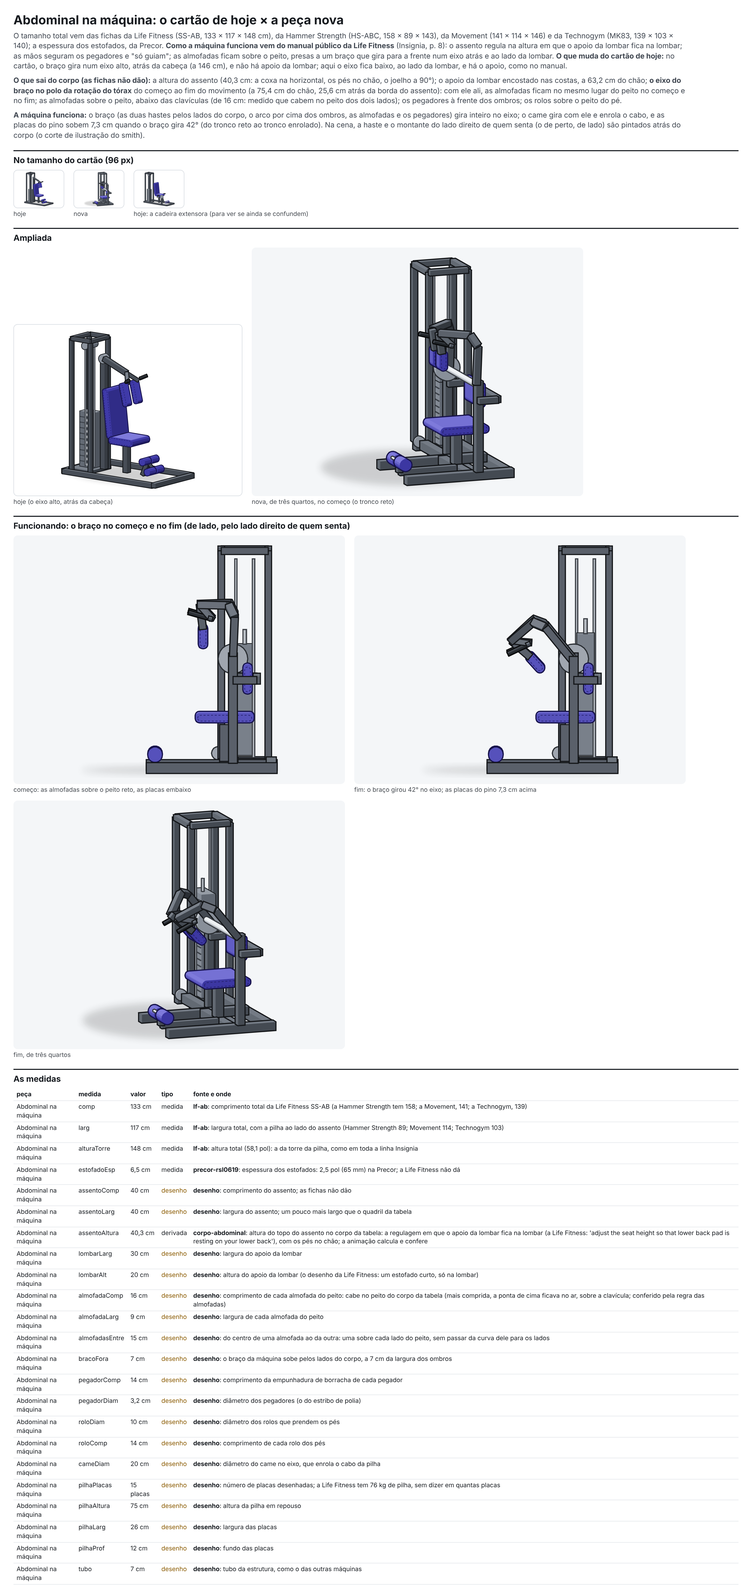
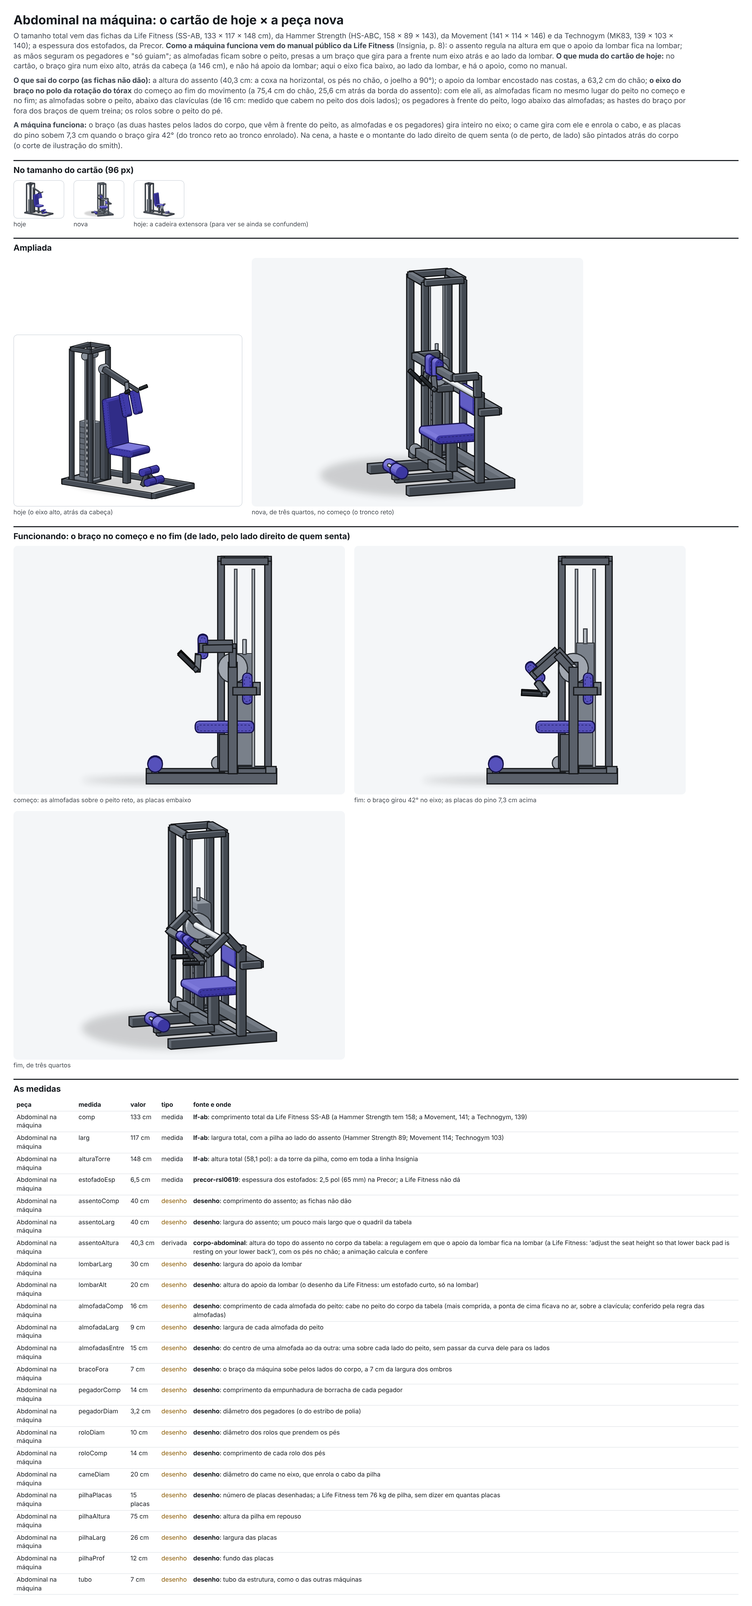
Abdominal na máquina: nada da máquina na frente do rosto
De lado, o pegador e a haste que descia por cima dos ombros ficavam na
frente dos olhos. As mãos vão para a frente do peito, logo abaixo das
almofadas, nos pegadores que saem da ponta de baixo delas; as hastes do
braço da máquina sobem pelos lados, por fora dos cotovelos, e vêm à
frente do peito. De lado, a almofada de perto aparece no peito. Regra
nova, nos dois lados: as hastes e os pegadores livres do corpo e longe da
cabeça.

Claude-Session: https://claude.ai/code/session_01YRzts8DBGbsca9onebcMt1

diff --git a/src/engine/novo/exercicios/abdominal-maquina.ts b/src/engine/novo/exercicios/abdominal-maquina.ts
@@ -2,8 +2,8 @@
 // números vêm da ficha (../dados/movimentos/abdominal-maquina.json); a máquina, de ../pecas-de-cena/abdominal-maquina.ts.
 //
 // Sentado, a bacia parada no assento, os pés no chão presos pelos rolos, a lombar no apoio; as almofadas do braço da
-// máquina sobre o peito e as mãos nos pegadores, ao lado da cabeça. Como no abdominal na polia aprovado
-// (./abdominal-polia.ts), quem enrola é a coluna (a lombar e a parte de cima das costas dobram, o pescoço acompanha), com
+// máquina sobre o peito e as mãos nos pegadores, à frente do peito, logo abaixo das almofadas. Como no abdominal na
+// polia aprovado (./abdominal-polia.ts), quem enrola é a coluna (a lombar e a parte de cima das costas dobram, o pescoço acompanha), com
 // a bacia parada: as costelas vão em direção à pelve, e o quadril quase não dobra. O braço da máquina gira junto,
 // empurrado pelo peito, e as mãos vão com ele (os braços só seguram).
 //
@@ -29,7 +29,7 @@ import { abdominalMaquina, bracoDoAbdominal } from '../pecas-de-cena/abdominal-m
 import type { AbdominalMaquina, AlmofadaDoPeito } from '../pecas-de-cena/abdominal-maquina';
 import type { Corpo } from '../tabelas';
 import { obj } from '../tabelas';
-import { add, anguloEm, cross, dirRef, dot, mix, mul, noRef, norm, paraRef, sub } from '../vec';
+import { add, anguloEm, cross, dirRef, dot, mix, noRef, norm, paraRef, sub } from '../vec';
 import type { V3 } from '../vec';
 import { frenteParaOPeito } from './polia-puxar';
 
@@ -49,7 +49,7 @@ interface Calib {
   lombar: V3;
   eixo: V3;
   xBraco: number;
-  arco: [number, number];
+  zHaste: number;
   /** O ponto de cada almofada e de cada pegador no referencial do tórax, no começo. */
   almofada: V3;
   pegador: V3;
@@ -134,18 +134,42 @@ function calibrar(corpo: Corpo): Calib {
     const xA = obj('abdominalMaquina', 'almofadasEntre') / 2;
     const yA = -f('almofada.abaixoDoC7');
     const almofada = add(peleDaFrente(e0, -xA, yA), [0, 0, f('almofada.folga')]);
-    // os pegadores: à frente dos ombros, logo acima das almofadas (no referencial do tórax), apontando para a frente
+    // os pegadores: saem da ponta de baixo das almofadas, à frente do peito (no referencial do tórax), apontando para a
+    // frente
     const pegador: V3 = [-f('maos.meiaDistancia'), f('maos.acimaDoC7'), f('maos.aFrente')];
-    // o braço sobe pelos lados, por fora dos ombros, e passa por cima deles
+    // o braço sobe pelos lados, por fora dos ombros, e vem à frente do peito passando à frente dos braços de quem
+    // treina (com as mãos nos pegadores): o ponto mais à frente da pele dos braços na altura das almofadas, mais o raio
+    // da haste e a folga
     const xBraco = m('largura.bideltoide') / 2 + obj('abdominalMaquina', 'bracoFora');
-    const arco: [number, number] = [e0.lado.R.acromioclavicular[1] + f('arco.acimaDoOmbro'), e0.lado.R.ombro[2] - 4];
+    const yAlmofada = noRef(e0.torax, [0, -f('almofada.abaixoDoC7'), 0])[1];
+    const mPeg = maquina(corpo, { y, z: zP, frente, bolaZ, assento: 0, lombar: [0, 0, 0], eixo: [0, 0, 0], xBraco, zHaste: 0, almofada: [0, 0, 0], pegador, rolos: [0, 0, 0] }, 0);
+    const tBr = tronco(corpo, { y, z: zP, frente }, 0);
+    const eBr = resolverMembros(tBr, bracosNos(tBr, bracoDoAbdominal(mPeg).pegadores), pernas(bolaZ));
+    let zBraco = -1e9,
+      xFora = 0;
+    for (const { p, parte } of pontosDoBoneco(eBr)) {
+      if ((parte === 'braco' || parte === 'ante') && Math.abs(p[1] - yAlmofada) < 8) zBraco = Math.max(zBraco, p[2]);
+      if ((parte === 'braco' || parte === 'ante' || parte === 'mao' || parte === 'polegar') && p[1] < yAlmofada + 8) xFora = Math.max(xFora, Math.abs(p[0]));
+    }
+    const zHaste = zBraco + 2.5 + f('haste.folga');
+    // e as hastes sobem por fora dos cotovelos de quem treina (que se abrem um pouco), com a mesma folga
+    const xHaste = Math.max(xBraco, xFora + 2.5 + f('haste.folga'));
     // os rolos dos pés: sobre o peito do pé, `rolos.aFrente` cm à frente do tornozelo
     const zr = e0.lado.R.tornozelo[2] + f('rolos.aFrente');
     let topo = -1e9;
     for (const { p, parte } of pontosDoBoneco(e0)) if (parte === 'pe' && Math.abs(p[2] - zr) < 1.5) topo = Math.max(topo, p[1]);
     const rolos: V3 = [0, topo + obj('abdominalMaquina', 'roloDiam') / 2 + f('rolos.folga'), zr];
-    return { y, z: zP, frente, bolaZ, assento, lombar, eixo, xBraco, arco, almofada, pegador, rolos };
+    return { y, z: zP, frente, bolaZ, assento, lombar, eixo, xBraco: xHaste, zHaste, almofada, pegador, rolos };
   });
+}
+
+/** Os braços: cada mão fechada no seu pegador (a pegada neutra), o cotovelo para baixo, para fora e um pouco à frente. */
+function bracosNos(t: Tronco, pegadores: Record<Lado, { centro: V3; eixo: V3 }>): Record<Lado, PoseBraco> {
+  const braco = (k: Lado): PoseBraco => {
+    const s = sinal(k);
+    return { pegada: pegadores[k].centro, polo: norm(dirRef(t.torax, [s * 0.45, -1, 0.7])), mao: { polegar: pegadores[k].eixo, forma: 'pegada', diam: obj('abdominalMaquina', 'pegadorDiam') } };
+  };
+  return { R: braco('R'), L: braco('L') };
 }
 
 /** A máquina com o braço girado `alavanca` graus (as almofadas e os pegadores definidos pelo tórax do começo). */
@@ -159,7 +183,7 @@ function maquina(corpo: Corpo, c: Calib, alavanca: number): AbdominalMaquina {
     almofadas[k] = { centro: noRef(T, esp(c.almofada)), normal: T.z, ao: T.y };
     pegadores[k] = { centro: noRef(T, esp(c.pegador)), eixo: norm(dirRef(T, [0, f('maos.pegadorSobe'), 1])) };
   }
-  return { assento: c.assento, lombar: { centro: c.lombar, normal: [0, 0, 1] }, eixo: c.eixo, xBraco: c.xBraco, arco: { y: c.arco[0], z: c.arco[1] }, almofadas, pegadores, alavanca, rolos: c.rolos, zTras: c.eixo[2] - f('maquina.atrasDoEixo'), pertoAtras: 'R' };
+  return { assento: c.assento, lombar: { centro: c.lombar, normal: [0, 0, 1] }, eixo: c.eixo, xBraco: c.xBraco, zHaste: c.zHaste, almofadas, pegadores, alavanca, rolos: c.rolos, zTras: c.eixo[2] - f('maquina.atrasDoEixo'), pertoAtras: 'R' };
 }
 
 /** O quanto a pele do peito avança além da face da almofada direita (cm; negativo = longe), só sobre ela. */
@@ -243,11 +267,7 @@ function montar(corpo: Corpo, u: number, erro?: string) {
       : anguloDaCurva(corpo, c, 'certo', (x) => tronco(corpo, c, x), u);
   const M = maquina(corpo, c, alavanca);
   const B = bracoDoAbdominal(M);
-  const braco = (k: Lado): PoseBraco => {
-    const s = sinal(k);
-    return { pegada: B.pegadores[k].centro, polo: norm(dirRef(t.torax, [s * 0.45, -1, 0.7])), mao: { polegar: mul(B.pegadores[k].eixo, -1), forma: 'pegada', diam: obj('abdominalMaquina', 'pegadorDiam') } };
-  };
-  const e = resolverMembros(t, { R: braco('R'), L: braco('L') }, pernas(c.bolaZ));
+  const e = resolverMembros(t, bracosNos(t, B.pegadores), pernas(c.bolaZ));
   return { e, M, c };
 }
 
@@ -268,6 +288,8 @@ function quadro(corpo: Corpo, u: number, erro?: string): Quadro {
     marcas[`almofadaNormal.${k}`] = B.almofadas[k].normal;
     marcas[`almofadaAo.${k}`] = B.almofadas[k].ao;
     marcas[`pegador.${k}`] = B.pegadores[k].centro;
+    marcas[`pegadorEixo.${k}`] = B.pegadores[k].eixo;
+    A.hastes[k].forEach((p, i) => (marcas[`haste.${k}.${i}`] = p));
   }
   return {
     esq: e,

diff --git a/src/engine/novo/pecas-de-cena/abdominal-maquina.ts b/src/engine/novo/pecas-de-cena/abdominal-maquina.ts
@@ -12,9 +12,10 @@
 // da Life Fitness (e como pede o movimento: o tronco enrola em volta da coluna, e não do alto da cabeça); e o cartão
 // não tem o apoio da lombar, que o manual tem.
 //
-// A máquina funciona: o braço (as duas hastes que sobem pelos lados do corpo, o arco por cima dos ombros, as almofadas
-// e os pegadores) gira inteiro no eixo; o came gira com ele e enrola o cabo, e as placas escolhidas sobem o arco do came
-// (raio × ângulo girado desde a posição inicial).
+// A máquina funciona: o braço (as duas hastes que sobem pelos lados do corpo e vêm à frente do peito, as almofadas e
+// os pegadores, que saem da ponta de baixo das almofadas) gira inteiro no eixo; o came gira com ele e enrola o cabo, e
+// as placas escolhidas sobem o arco do came (raio × ângulo girado desde a posição inicial). Os pegadores e as hastes
+// ficam abaixo dos ombros: nada da máquina passa na altura do rosto (de lado, nada fica na frente dele).
 //
 // Eixos: quem senta olha para +z; o assento fica centrado em x = 0, com a borda da frente em z = 0. O lado esquerdo de
 // quem senta é +x (o direito, que a vista de lado mostra, é −x): o came e a torre ficam à esquerda.
@@ -47,8 +48,8 @@ export interface AbdominalMaquina {
   eixo: V3;
   /** Meia distância entre as duas hastes do braço (cm). */
   xBraco: number;
-  /** A altura (cm) e o z do arco que passa por cima dos ombros, na posição inicial. */
-  arco: { y: number; z: number };
+  /** O z da parte das hastes que vem à frente do peito, na posição inicial: à frente dos braços de quem treina. */
+  zHaste: number;
   almofadas: Record<Lado, AlmofadaDoPeito>;
   /** O centro de cada pegador e a direção dele (de baixo para cima), na posição inicial. */
   pegadores: Record<Lado, { centro: V3; eixo: V3 }>;
@@ -88,8 +89,8 @@ export function bracoDoAbdominal(m: AbdominalMaquina) {
 }
 
 /**
- * A máquina: os volumes para a conferência (o assento, o apoio da lombar, as almofadas, os pegadores, o arco por cima
- * dos ombros e os rolos: onde o corpo encosta e o que ele não pode atravessar), a estrutura parada e o braço que gira.
+ * A máquina: os volumes para a conferência (o assento, o apoio da lombar, as almofadas, os pegadores, as hastes
+ * e os rolos: onde o corpo encosta e o que ele não pode atravessar), a estrutura parada e o braço que gira.
  */
 export function abdominalMaquina(m: AbdominalMaquina) {
   const esp = g('estofadoEsp'),
@@ -98,12 +99,17 @@ export function abdominalMaquina(m: AbdominalMaquina) {
   const B = bracoDoAbdominal(m);
   const caixa = (o: V3, x: V3, y: V3, z: V3, meias: V3, cls: string): Prim => ({ t: 'caixa', ref: { o, x, y, z }, meias, cls, vies: 0.5 });
   const xb = m.xBraco;
-  // o caminho de cada haste: do eixo sobe pelo lado do corpo, faz a curva por cima do ombro e desce até a almofada
+  // o caminho de cada haste: do eixo sobe pelo lado do corpo, por fora do braço de quem treina, até a altura das
+  // almofadas, vem para a frente por fora do braço, passa à frente dele e volta até a borda de fora da almofada (nada
+  // passa na altura do rosto)
   const caminho = (k: Lado): V3[] => {
     const s = k === 'R' ? -1 : 1;
     const a = m.almofadas[k];
-    const topo = add(a.centro, add(mul(a.ao, g('almofadaComp') / 2 - 3), mul(a.normal, esp / 2)));
-    const pts: V3[] = [[s * xb, m.eixo[1], m.eixo[2]], [s * xb, m.arco.y - 8, m.arco.z], [s * (xb - 6), m.arco.y, m.arco.z + 4], [topo[0], m.arco.y, topo[2] + 2], topo];
+    const fora = norm(cross(a.ao, a.normal));
+    const borda = add(add(a.centro, mul(a.normal, esp / 2)), mul(fora, (Math.sign(fora[0]) === s ? 1 : -1) * (g('almofadaLarg') / 2)));
+    // a parte da frente passa à frente do braço de quem treina (`zHaste`) e volta até a borda da almofada
+    const zH = Math.max(borda[2], m.zHaste);
+    const pts: V3[] = [[s * xb, m.eixo[1], m.eixo[2]], [s * xb, borda[1], m.eixo[2]], [s * xb, borda[1], zH], [borda[0], borda[1], zH], borda];
     return pts.map(B.P);
   };
   const pegBase = (k: Lado): V3 => B.P(add(m.pegadores[k].centro, mul(m.pegadores[k].eixo, -g('pegadorComp') / 2 - 3)));
@@ -204,18 +210,18 @@ export function abdominalMaquina(m: AbdominalMaquina) {
       const cx = (x: number): V3 => [x, m.eixo[1], m.eixo[2]];
       C.cilindro(cx(xC - 3), cx(xC + 3), rC, M.metalClaro, { lados: 24 });
       C.cilindro(cx(-xb - 7), cx(xC + 5), 2.4, M.cromo, { lados: 12 });
-      // as duas hastes do braço, com o arco por cima dos ombros, até as almofadas (a do lado de perto, se for cenário,
+      // as duas hastes do braço, pelos lados do corpo e à frente do peito, até as almofadas (a do lado de perto, se for cenário,
       // vai à parte)
       for (const k of ['R', 'L'] as Lado[]) {
-        const c = caminho(k);
         if (k !== m.pertoAtras) haste(C, M, k);
         // a almofada do peito: a face de trás encosta no peito
         const a = B.almofadas[k];
         C.estofado(a.centro, a.ao, a.normal, norm(cross(a.ao, a.normal)), g('almofadaComp'), esp, g('almofadaLarg'));
-        // o pegador: a haste que sai do arco e a empunhadura de borracha
+        // o pegador: a haste que sai da ponta de baixo da almofada, pela frente dela, e a empunhadura de borracha
         const p = B.pegadores[k];
         const base = pegBase(k);
-        C.tubo(c[3]!, base, 3.5, 3.5, M.metal);
+        const pe = add(a.centro, add(mul(a.ao, -g('almofadaComp') / 2 + 2), mul(a.normal, esp)));
+        C.tubo(pe, base, 3.5, 3.5, M.metal);
         C.cilindro(add(p.centro, mul(p.eixo, -g('pegadorComp') / 2 - 3)), add(p.centro, mul(p.eixo, -g('pegadorComp') / 2)), 1.6, M.metal, { lados: 10 });
         C.cilindro(add(p.centro, mul(p.eixo, -g('pegadorComp') / 2)), add(p.centro, mul(p.eixo, g('pegadorComp') / 2)), g('pegadorDiam') / 2, M.borracha, { lados: 12, dz: 6 });
       }
@@ -234,5 +240,5 @@ export function abdominalMaquina(m: AbdominalMaquina) {
         },
       }
     : undefined;
-  return { prims, fixa, movel, perto, subida, braco: B, extremos: { zTras: m.zTras, zFrente, xDireita: -xb - 8, xEsquerda: xT1 + 2 } };
+  return { prims, fixa, movel, perto, subida, braco: B, hastes: { R: caminho('R'), L: caminho('L') }, extremos: { zTras: m.zTras, zFrente, xDireita: -xb - 8, xEsquerda: xT1 + 2 } };
 }

diff --git a/docs/revisoes/animacao-nova/lote-C3/abdominal-maquina.md b/docs/revisoes/animacao-nova/lote-C3/abdominal-maquina.md
@@ -21,7 +21,8 @@ O tamanho vem das fichas (Life Fitness SS-AB 133 × 117 × 148 cm; Hammer Streng
 | Enrola o tronco: as costelas vão à pelve | consenso | a lombar dobra 26° e a torácica 40° (os números do abdominal na polia aprovado); o tórax gira 49,3°; a base do pescoço chega 6,9 cm mais perto do quadril | sim |
 | O quadril dobra pouco | consenso | a bacia não anda nem gira (0 cm, 0°) | sim |
 | Volta controlada até o tronco ficar reto | consenso | 2 s; no começo, o peito na vertical, a coluna neutra | sim |
-| Braços só seguram | consenso | **as duas mãos** ficam nos pegadores (0 cm), fechadas; em relação ao tórax, andam 5,4 cm e o cotovelo vai de 138,2° a 143,4° | sim |
+| Braços só seguram | consenso | **as duas mãos** ficam nos pegadores (0 cm), fechadas, à frente do peito, logo abaixo das almofadas; em relação ao tórax, andam 4,4 cm e o cotovelo vai de 116,3° a 122,7° | sim |
+| (Nada da máquina no rosto ou no corpo) | desenho | nos dois lados, as hastes do braço da máquina, as dos pegadores e as empunhaduras ficam a no mínimo 0,9 cm da pele (fora a mão que segura) e a 11,1 cm da cabeça | sim |
 | (A máquina funciona) | consenso | o braço gira de 0,5° a 42° no eixo; a pilha sobe 7,2 cm (o arco do came de 20 cm) | sim |
 
 **Conferência automática: 0 falha, 1 aviso** (as linhas que são escolha de desenho).
@@ -30,22 +31,30 @@ O tamanho vem das fichas (Life Fitness SS-AB 133 × 117 × 148 cm; Hammer Streng
 
 Todas as regras de contato medem os dois lados: as duas almofadas (no peito e dentro das bordas: a primeira versão, de 22 cm e mais alta, tinha a ponta de cima no ar, a 7 a 9 cm da pele, sobre a clavícula; ficou com 16 cm, 18 cm abaixo da sétima cervical e 15 cm entre os centros), as duas mãos nos pegadores, os dois pés sob os rolos e os dois lados do glúteo no assento. Nos quadros, de três quartos, o braço, a mão e a almofada do lado de longe aparecem no lugar.
 
+## A revisão de 18/11: o pegador na frente do rosto
+
+Na primeira versão, de lado (a vista que o app abre), o pegador e a haste que descia do arco por cima dos ombros ficavam na frente dos olhos em f0 e f0,5. Agora:
+- **as mãos ficam à frente do peito, logo abaixo das almofadas** (o centro de cada uma 27 cm abaixo da sétima cervical, 32 cm à frente dela, a 13 cm do meio do corpo), nos pegadores que saem da ponta de baixo das almofadas, apontando para a frente e para cima (45°). O manual da Life Fitness só diz "grip handles"; o desenho dele põe as mãos ao lado da cabeça, e era isso que cruzava o rosto. No fim do abdominal os pegadores ficam quase na horizontal, a 0,9 cm das coxas no ponto mais perto;
+- **o braço da máquina não passa mais por cima dos ombros:** as duas hastes sobem pelos lados do corpo, por fora dos cotovelos de quem treina (a 45,8 cm do meio, 2 cm por fora da pele deles), vêm à frente do peito na altura das almofadas e entram até a borda de fora delas. Nada da máquina fica na altura do rosto;
+- **de lado, a almofada do lado de perto aparece no peito**, inteira, e a mão segura logo abaixo dela.
+
+Uma regra nova mede isso nos dois lados (`abdominal-maquina-pegadores-livres-do-corpo`: as hastes e os pegadores a pelo menos 0,5 cm da pele, fora a mão que segura, e a pelo menos 10 cm da cabeça).
+
 ## As vistas
 
-**De lado** (padrão): a coluna enrolando, o assento, o apoio da lombar, a pilha subindo atrás. A haste e o montante do braço do lado de perto são pintados atrás do corpo (cobriam o ombro e as costas, o corte de ilustração do smith). **De três quartos** (segunda e a do modo Músculos): o braço da máquina inteiro, as almofadas no peito, os rolos dos pés.
+**De lado** (padrão): a coluna enrolando, a almofada no peito, as mãos logo abaixo dela, o assento, o apoio da lombar, a pilha subindo atrás. A haste e o montante do braço do lado de perto são pintados atrás do corpo (o corte de ilustração do smith). **De três quartos** (segunda e a do modo Músculos): o braço da máquina inteiro, as duas almofadas no peito, as duas mãos, os rolos dos pés.
 
 ## Erros (os dois do cartão, com o mesmo título e na mesma ordem)
 
 | Erro | Vista | O que o boneco faz (medido) |
 |---|---|---|
-| Puxar com os braços | de lado | o braço da máquina vai o caminho todo (42,1°), mas a coluna enrola só 35% (o peito a 17,3° da vertical): os braços puxam (o cotovelo abre de 143° para 120°) e o peito sai das almofadas |
-| Só dobrar o quadril | de lado | a coluna fica reta e a bacia gira 38°: o tronco desce inteiro (o peito a 38°), a lombar sai do apoio e o braço da máquina vai a 63° |
+| Puxar com os braços | de lado | o braço da máquina vai o caminho todo (42°), mas a coluna enrola só 35%: os braços puxam (o cotovelo abre) e o peito sai das almofadas |
+| Só dobrar o quadril | de lado | a coluna fica reta e a bacia gira 38°: o tronco desce inteiro, a lombar sai do apoio e o braço da máquina vai mais longe |
 
 ## O que não ficou bom
 
-- **De lado, as almofadas quase não aparecem:** o braço da pessoa fica na frente delas, e a haste do lado de perto vai para trás do corpo. A máquina se lê melhor de três quartos.
-- **As mãos ficam à frente dos ombros, e não ao lado da cabeça** como no desenho do manual: ao lado da cabeça, de lado, o pegador passava na frente do rosto. O cotovelo fica bem dobrado (~140°).
-- **A peça é diferente do cartão de hoje** (o eixo baixo, ao lado da lombar, no lugar do eixo alto atrás da cabeça, e o apoio da lombar): segue o manual da Life Fitness, mas o cartão do app não foi mexido.
-- O eixo está dentro da largura do corpo, na altura da lombar (é o polo da rotação do tórax); o braço da máquina passa por fora, a 31 cm do meio.
+- **De frente, as hastes passam na frente dos braços**, na altura das almofadas, e a máquina fica larga (as hastes a 45,8 cm do meio): é o preço de tirá-las de cima dos ombros.
+- **A peça é diferente do cartão de hoje** (o eixo baixo, ao lado da lombar, o apoio da lombar, as hastes pelos lados): segue o manual da Life Fitness, mas o cartão do app não foi mexido.
+- De lado, a almofada de perto é pintada por cima do braço (de perfil, o braço fica entre ela e quem olha): é o que deixa a almofada aparecer no peito.
 
-**Risco de o Gustavo não gostar: médio** (máquina nova, diferente do cartão; as almofadas aparecem pouco de lado).
+**Risco de o Gustavo não gostar: médio** (máquina nova, diferente do cartão).

diff --git a/docs/revisoes/animacao-nova/lote-C3/resumo-avulsos.md b/docs/revisoes/animacao-nova/lote-C3/resumo-avulsos.md
@@ -9,9 +9,9 @@ De 18/11/2026. As últimas animações da fase C deste grupo: o abdominal na má
 Folha: `docs/revisoes/animacoes-restantes/pecas/folha-abdominal-maquina.png` (`node scripts/animacao-nova/folha-pecas.mjs abdominal-maquina`).
 
 - **Medidas com fonte:** 133 × 117 × 148 cm (Life Fitness SS-AB, manual público Insignia, p. 8; a mesma da pesquisa, LF-HS26); Hammer Strength HS-ABC 158 × 89 × 143, Movement 141 × 114 × 146, Technogym MK83 139 × 103 × 140 (pesquisa, seção 13.1); estofados de 6,5 cm (Precor). **Como funciona, do manual da Life Fitness:** o assento regula para o apoio da lombar ficar na lombar; as mãos nos pegadores só guiam; as almofadas sobre o peito, num braço que gira num eixo atrás e ao lado da lombar.
-- **Derivadas do corpo:** o assento a 40,3 cm (a coxa na horizontal, os pés no chão, o joelho a 90°); o apoio da lombar encostado nas costas; **o eixo no polo da rotação do tórax** do começo ao fim do abdominal (26,1 cm acima do centro do quadril, 3,6 cm atrás dele); as almofadas sobre o peito; os pegadores à frente dos ombros; os rolos sobre o peito do pé.
+- **Derivadas do corpo:** o assento a 40,3 cm (a coxa na horizontal, os pés no chão, o joelho a 90°); o apoio da lombar encostado nas costas; **o eixo no polo da rotação do tórax** do começo ao fim do abdominal (26,1 cm acima do centro do quadril, 3,6 cm atrás dele); as almofadas sobre o peito; os pegadores à frente do peito, logo abaixo das almofadas; as hastes por fora dos cotovelos de quem treina (45,8 cm do meio) e à frente do peito; os rolos sobre o peito do pé.
 - **De desenho:** o assento, o apoio da lombar, as almofadas (16 × 9 cm, 15 cm entre os centros), os pegadores, os rolos, o came (20 cm), a pilha, os tubos.
-- **Funciona:** o braço inteiro gira no eixo, o came enrola o cabo e as placas sobem o arco do came (7,2 cm em 42°).
+- **Funciona:** o braço inteiro (as hastes, as almofadas e os pegadores) gira no eixo, o came enrola o cabo e as placas sobem o arco do came (7,2 cm em 42°).
 - **Diferente do cartão de hoje:** o cartão gira o braço num eixo alto, atrás da cabeça, e não tem o apoio da lombar.
 
 ### A tornozeleira (`pecas-de-cena/tornozeleira.ts`, `dados/objetos/tornozeleira.json`)
@@ -28,13 +28,13 @@ Folha: `docs/revisoes/animacoes-restantes/pecas/folha-tornozeleira.png`.
 
 | | Abdominal na máquina | Coice na polia | Abdução na polia | Remada invertida |
 |---|---|---|---|---|
-| Conferência automática | 0 falha, 1 aviso (linhas de desenho) | 0 falha, 2 avisos (dorsiflexão de 20°; linhas de desenho) | 0 falha, 2 avisos (linhas de desenho; o glúteo não aparece de frente) | 0 falha, 2 avisos (ritmo 17,1%; linhas de desenho) |
+| Conferência automática | 0 falha, 1 aviso (linhas de desenho) | 0 falha, 1 aviso (linhas de desenho) | 0 falha, 2 avisos (linhas de desenho; o glúteo não aparece de frente) | 0 falha, 2 avisos (ritmo 17,1%; linhas de desenho) |
 | Vistas | de lado e de três quartos | de lado e de três quartos, por trás | de frente e de trás | de lado e de três quartos, por trás |
 | Erros desenhados | puxar com os braços; só dobrar o quadril | arquear a lombar; dobrar o joelho; embalar | inclinar o tronco; girar o pé para fora | quadril caído; puxar com o queixo; descida solta |
 | Erros sem desenho | nenhum | nenhum | **embalar a perna** (ritmo; como o "Balançar a perna" da abdução com elástico, que já está em `SEM_DESENHO`) | nenhum |
 | Conferência escrita | `abdominal-maquina.md` | `coice-polia.md` | `abducao-polia.md` | `remada-invertida.md` |
 | Quadros grandes | `../quadros/abdominal-maquina.png` | `../quadros/coice-polia.png` | `../quadros/abducao-polia.png` | `../quadros/remada-invertida.png` |
-| Risco de o Gustavo não gostar | médio | médio a alto | médio | médio |
+| Risco de o Gustavo não gostar | médio | médio | médio | médio |
 
 ## Os dois lados (aviso de 18/11)
 
@@ -50,9 +50,15 @@ Nenhuma no núcleo, nas peças comuns ou nas animações aprovadas (o preparo de
 - O `dados/preparo/registro.ts` é o gerado pelo `preparo.mjs`; ele gravou só os quatro arquivos novos (com as calibrações) e as linhas do registro.
 - Pedidos ao conteúdo: `pedidos-avulsos.md` (os posteriores no coice; o cartão de equipamento do abdominal).
 
+## A revisão de 18/11 (o abdominal e o coice voltaram)
+
+O integrador aprovou a abdução na polia e a remada invertida, e devolveu os outros dois:
+- **Abdominal na máquina:** de lado, o pegador ficava na frente dos olhos. As mãos foram para a frente do peito, logo abaixo das almofadas (o manual só diz "grip handles"), e as hastes do braço da máquina sobem pelos lados, por fora dos cotovelos, e vêm à frente do peito: nada passa na altura do rosto, e a almofada de perto aparece no peito. Regra nova, nos dois lados: as hastes e os pegadores livres do corpo (0,9 cm) e da cabeça (11,1 cm).
+- **Coice na polia:** o joelho que trabalha dobrava 34° no meio do chute. Agora fica em 8° o ciclo todo (a regra mede até 15° em todos os quadros): a bacia sobe 3,9° do lado que trabalha, em volta do quadril de apoio, parada, e a coluna devolve a inclinação (o tórax fica reto). O tronco mais inclinado e a perna começando mais à frente não mudam a altura do quadril, e o joelho de apoio mais dobrado a abaixa.
+
 ## O que não ficou bom (o principal; o resto em cada conferência)
 
-- **Coice:** o joelho dobra até 34° quando o pé passa embaixo do quadril (a perna estendida e na vertical é ~1 cm mais comprida que a distância do quadril ao chão); nas pontas, 13°. É o primeiro coice em pé do motor.
-- **Abdominal:** de lado, as almofadas quase não aparecem (o braço da pessoa fica na frente, e a haste de perto vai para trás do corpo); a peça difere do cartão de hoje.
+- **Coice:** a bacia fica 3,9° mais alta do lado que trabalha (de trás, se percebe pouco).
+- **Abdominal:** de frente, as hastes do braço da máquina passam na frente dos braços e a máquina fica larga; a peça difere do cartão de hoje.
 - **Remada:** a descida solta se lê pelo braço travado e pelo ombro, não por um corpo mais baixo.
 - **Tornozeleira:** argola e mosquetão provisórios; a 320 px a argola some.
